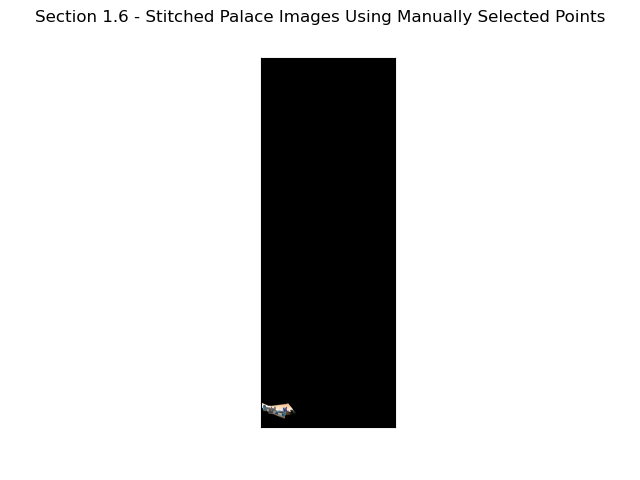
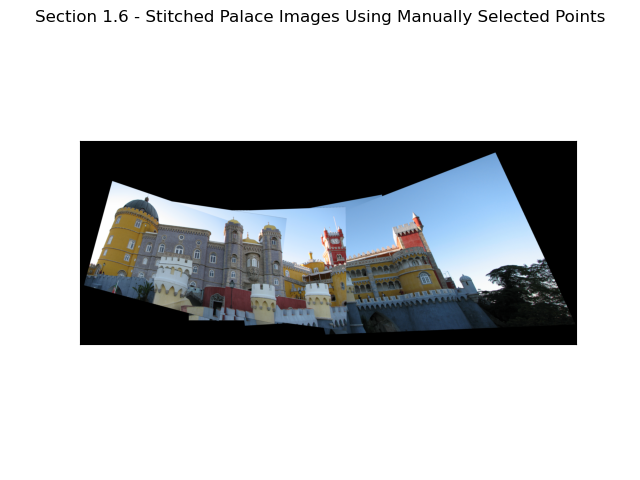
progress

diff --git a/code/my_homography.py b/code/my_homography.py
@@ -107,7 +107,7 @@ def createBigPanorama(images, mode='SIFT', use_ransac=True):
         if use_ransac == True:
             H_SIFT_2to1 = ransacH(p1, p2, nIter=150, tol=1.5) # TODO check
         else:
-            H_SIFT_2to1 = computeH(p1[:, :], p2[:, :])
+            H_SIFT_2to1 = computeH(p1[:, :6], p2[:, :6]) # TODO check
         out_size, y_down_amount, x_right_amount = \
             computeOutSize(current_result_left, image, H_SIFT_2to1)
         warped_im1_SIFT = warpH(current_result_left, H_SIFT_2to1, out_size,
@@ -124,7 +124,7 @@ def createBigPanorama(images, mode='SIFT', use_ransac=True):
         if use_ransac == True:
             H_SIFT_2to1 = ransacH(p1, p2, nIter=150, tol=1.5) # TODO check
         else:
-            H_SIFT_2to1 = computeH(p1[:, :], p2[:, :])
+            H_SIFT_2to1 = computeH(p1[:, :6], p2[:, :6]) # TODO check
         out_size, y_down_amount, x_right_amount = \
             computeOutSize(current_result_right, image, H_SIFT_2to1)
         warped_im1_SIFT = warpH(current_result_right, H_SIFT_2to1, out_size,
@@ -141,7 +141,7 @@ def createBigPanorama(images, mode='SIFT', use_ransac=True):
     if use_ransac == True:
         H_SIFT_2to1 = ransacH(p1, p2, nIter=150, tol=1.5) # TODO check
     else:
-        H_SIFT_2to1 = computeH(p1[:, :], p2[:, :])
+        H_SIFT_2to1 = computeH(p1[:, :6], p2[:, :6]) # TODO check
     out_size, y_down_amount, x_right_amount = \
         computeOutSize(current_result_left, current_result_right,
                        H_SIFT_2to1)
@@ -511,7 +511,7 @@ def Q1Six():
         cv2.cvtColor(cv2.imread('./data/sintra2.JPG'), cv2.COLOR_BGR2RGB),
         cv2.cvtColor(cv2.imread('./data/sintra1.JPG'), cv2.COLOR_BGR2RGB)]
 
-    scale_percent = 25  # percent of original size
+    scale_percent = 45  # percent of original size
     width = int(palace_images[0].shape[1] * scale_percent / 100)
     height = int(palace_images[0].shape[0] * scale_percent / 100)
     dim = (width, height)
@@ -519,44 +519,44 @@ def Q1Six():
     # Resize the images due to time constraints
     palace_images = [cv2.resize(img, dim) for img in palace_images]
 
-    # start_Manual_stitch_palace_time = time.time()
-    # print(f"Q1.6 - Starting panorama creation of Palace images using Manual "
-    #       f"mode and no RANSAC, with scale factor of {scale_percent}")
-    # manual_stitch_palace = createBigPanorama(palace_images, mode='MANUAL',
-    #                                          use_ransac=False)
-    # end_Manual_stitch_palace_time = time.time()
-    # print(f"Q1.6 - Panorama creation of Palace images using Manual mode and "
-    #       f"no RANSAC with with scale factor of {scale_percent} took "
-    #       f"{end_Manual_stitch_palace_time - start_Manual_stitch_palace_time} "
-    #       f"seconds to complete")
-    #
-    # fig3, axes3 = plt.subplots(1, 1)
-    # axes3.imshow(manual_stitch_palace)
-    # axes3.set_xticks([])
-    # axes3.set_yticks([])
-    # fig3.suptitle('Section 1.6 - Stitched Palace Images Using Manually '
-    #               'Selected Points')
-    # plt.savefig("./../output/Section 1.6 - Stitched Palace Images Using "
-    #             "Manually Selected Points.png")
-
-    start_SIFT_stitch_palace_time = time.time()
-    print(f"Q1.6 - Starting panorama creation of Palace images using SIFT and "
-          f"no RANSAC, with scale factor of {scale_percent}")
-    SIFT_stitch_palace = createBigPanorama(palace_images, mode='SIFT',
-                                           use_ransac=False)
-    end_SIFT_stitch_palace_time = time.time()
-    print(f"Q1.6 - Panorama creation of Palace images using SIFT and no RANSAC "
-          f"with with scale factor of {scale_percent} took "
-          f"{end_SIFT_stitch_palace_time - start_SIFT_stitch_palace_time} "
+    start_Manual_stitch_palace_time = time.time()
+    print(f"Q1.6 - Starting panorama creation of Palace images using Manual "
+          f"mode and no RANSAC, with scale factor of {scale_percent}")
+    manual_stitch_palace = createBigPanorama(palace_images, mode='MANUAL',
+                                             use_ransac=False)
+    end_Manual_stitch_palace_time = time.time()
+    print(f"Q1.6 - Panorama creation of Palace images using Manual mode and "
+          f"no RANSAC with with scale factor of {scale_percent} took "
+          f"{end_Manual_stitch_palace_time - start_Manual_stitch_palace_time} "
           f"seconds to complete")
 
-    fig4, axes4 = plt.subplots(1, 1)
-    axes4.imshow(SIFT_stitch_palace)
-    axes4.set_xticks([])
-    axes4.set_yticks([])
-    fig4.suptitle('Section 1.6 - Stitched Palace Images Using SIFT')
+    fig3, axes3 = plt.subplots(1, 1)
+    axes3.imshow(manual_stitch_palace)
+    axes3.set_xticks([])
+    axes3.set_yticks([])
+    fig3.suptitle('Section 1.6 - Stitched Palace Images Using Manually '
+                  'Selected Points')
     plt.savefig("./../output/Section 1.6 - Stitched Palace Images Using "
-                "SIFT.png")
+                "Manually Selected Points.png")
+
+    # start_SIFT_stitch_palace_time = time.time()
+    # print(f"Q1.6 - Starting panorama creation of Palace images using SIFT and "
+    #       f"no RANSAC, with scale factor of {scale_percent}")
+    # SIFT_stitch_palace = createBigPanorama(palace_images, mode='SIFT',
+    #                                        use_ransac=False)
+    # end_SIFT_stitch_palace_time = time.time()
+    # print(f"Q1.6 - Panorama creation of Palace images using SIFT and no RANSAC "
+    #       f"with with scale factor of {scale_percent} took "
+    #       f"{end_SIFT_stitch_palace_time - start_SIFT_stitch_palace_time} "
+    #       f"seconds to complete")
+    #
+    # fig4, axes4 = plt.subplots(1, 1)
+    # axes4.imshow(SIFT_stitch_palace)
+    # axes4.set_xticks([])
+    # axes4.set_yticks([])
+    # fig4.suptitle('Section 1.6 - Stitched Palace Images Using SIFT')
+    # plt.savefig("./../output/Section 1.6 - Stitched Palace Images Using "
+    #             "SIFT.png")
 
 
 def Q1Seven():
@@ -568,7 +568,7 @@ def Q1Seven():
         cv2.cvtColor(cv2.imread('./data/beach4.jpg'), cv2.COLOR_BGR2RGB),
         cv2.cvtColor(cv2.imread('./data/beach5.jpg'), cv2.COLOR_BGR2RGB)]
 
-    scale_percent = 40  # percent of original size
+    scale_percent = 60  # percent of original size
     width = int(beach_images[0].shape[1] * scale_percent / 100)
     height = int(beach_images[0].shape[0] * scale_percent / 100)
     dim = (width, height)
@@ -685,25 +685,45 @@ def Q1Eight():
 
     technion_images = [cv2.resize(img, dim) for img in technion_images]
 
-    start_SIFT_stitch_technion_time = time.time()
-    print(f"Q1.8 - Starting panorama creation of Technion images using SIFT "
-          f"and RANSAC, with scale factor of {scale_percent}")
-    SIFT_stitch_technion = createBigPanorama(technion_images, mode='SIFT',
+    # start_SIFT_stitch_technion_time = time.time()
+    # print(f"Q1.8 - Starting panorama creation of Technion images using SIFT "
+    #       f"and RANSAC, with scale factor of {scale_percent}")
+    # SIFT_stitch_technion = createBigPanorama(technion_images, mode='SIFT',
+    #                                          use_ransac=True)
+    # end_SIFT_stitch_technion_time = time.time()
+    # print(f"Q1.8 - Panorama creation of Technion images using SIFT and RANSAC "
+    #       f"with with scale factor of {scale_percent} took "
+    #       f"{end_SIFT_stitch_technion_time - start_SIFT_stitch_technion_time} "
+    #       f"seconds to complete")
+    #
+    # fig1, axes1 = plt.subplots(1, 1)
+    # axes1.imshow(SIFT_stitch_technion)
+    # axes1.set_xticks([])
+    # axes1.set_yticks([])
+    # fig1.suptitle('Section 1.8 - Stitched Technion Images Using SIFT and '
+    #               'RANSAC')
+    # plt.savefig("./../output/Section 1.8 - Stitched Technion Images Using "
+    #             "SIFT and RANSAC.png")
+
+    start_Manual_stitch_technion_time = time.time()
+    print(f"Q1.8 - Starting panorama creation of Technion images using Manual "
+          f"Point Selection and RANSAC, with scale factor of {scale_percent}")
+    SIFT_stitch_technion = createBigPanorama(technion_images, mode='Manual',
                                              use_ransac=True)
-    end_SIFT_stitch_technion_time = time.time()
-    print(f"Q1.8 - Panorama creation of Technion images using SIFT and RANSAC "
-          f"with with scale factor of {scale_percent} took "
-          f"{end_SIFT_stitch_technion_time - start_SIFT_stitch_technion_time} "
+    end_Manual_stitch_technion_time = time.time()
+    print(f"Q1.8 - Panorama creation of Technion images using Manual Point "
+          f"Selection and RANSAC with with scale factor of {scale_percent} took "
+          f"{end_Manual_stitch_technion_time - start_Manual_stitch_technion_time} "
           f"seconds to complete")
 
-    fig1, axes1 = plt.subplots(1, 1)
-    axes1.imshow(SIFT_stitch_technion)
-    axes1.set_xticks([])
-    axes1.set_yticks([])
-    fig1.suptitle('Section 1.8 - Stitched Technion Images Using SIFT and '
-                  'RANSAC')
+    fig2, axes2 = plt.subplots(1, 1)
+    axes2.imshow(SIFT_stitch_technion)
+    axes2.set_xticks([])
+    axes2.set_yticks([])
+    fig2.suptitle('Section 1.8 - Stitched Technion Images Using Manual Point '
+                  'Selection and RANSAC')
     plt.savefig("./../output/Section 1.8 - Stitched Technion Images Using "
-                "SIFT and RANSAC.png")
+                "Manual Point Selection and RANSAC.png")
 
 
 ################################################################################
@@ -720,7 +740,7 @@ if __name__ == '__main__':
     # Q1Four()
     # Q1Five()
     # Q1Six()
-    Q1Seven()
+    # Q1Seven()
     # Q1Eight()
 
     print("end")
